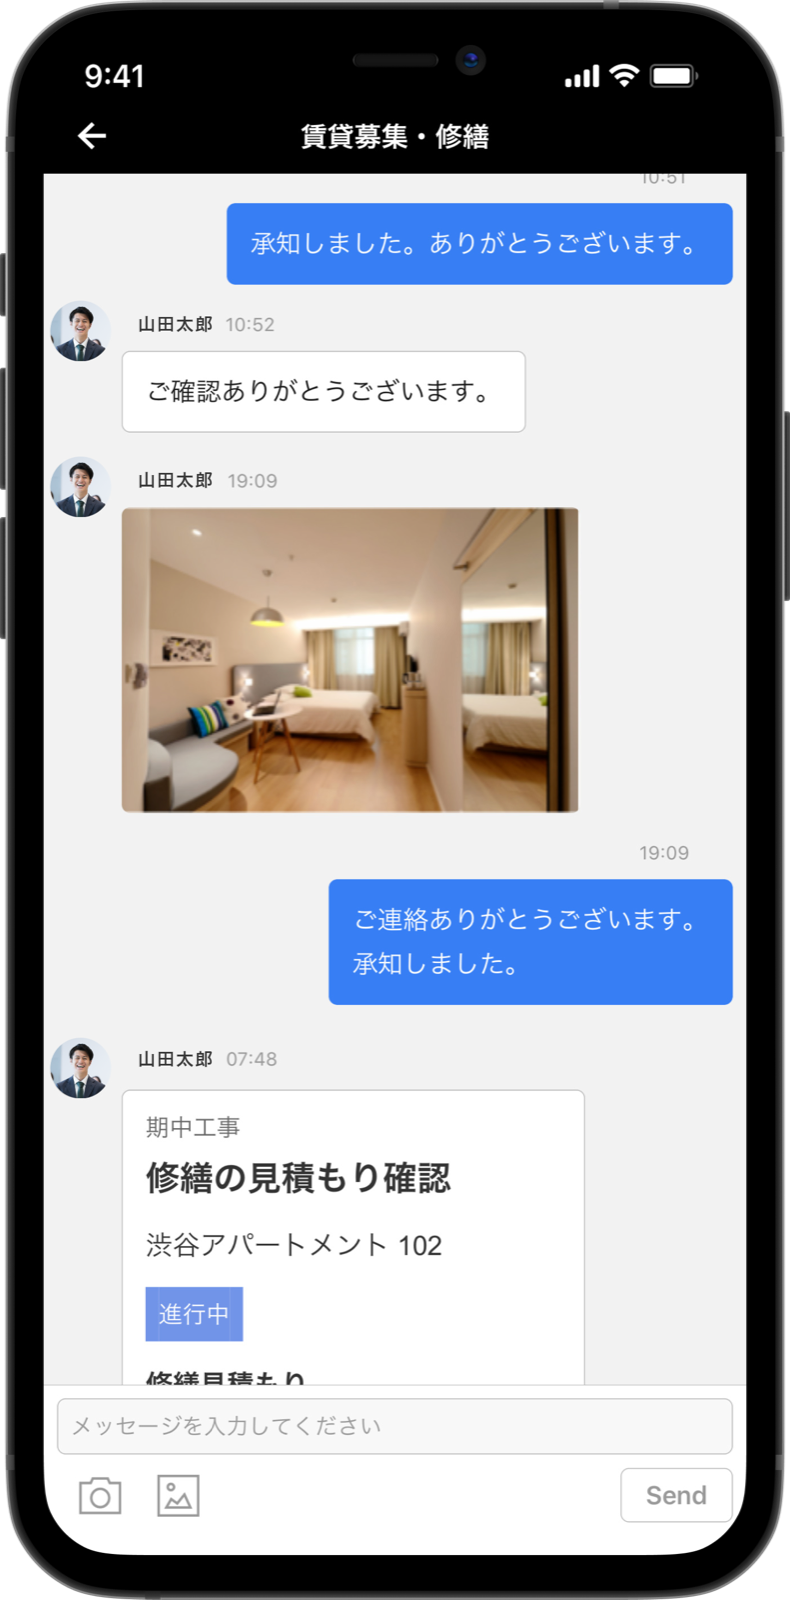
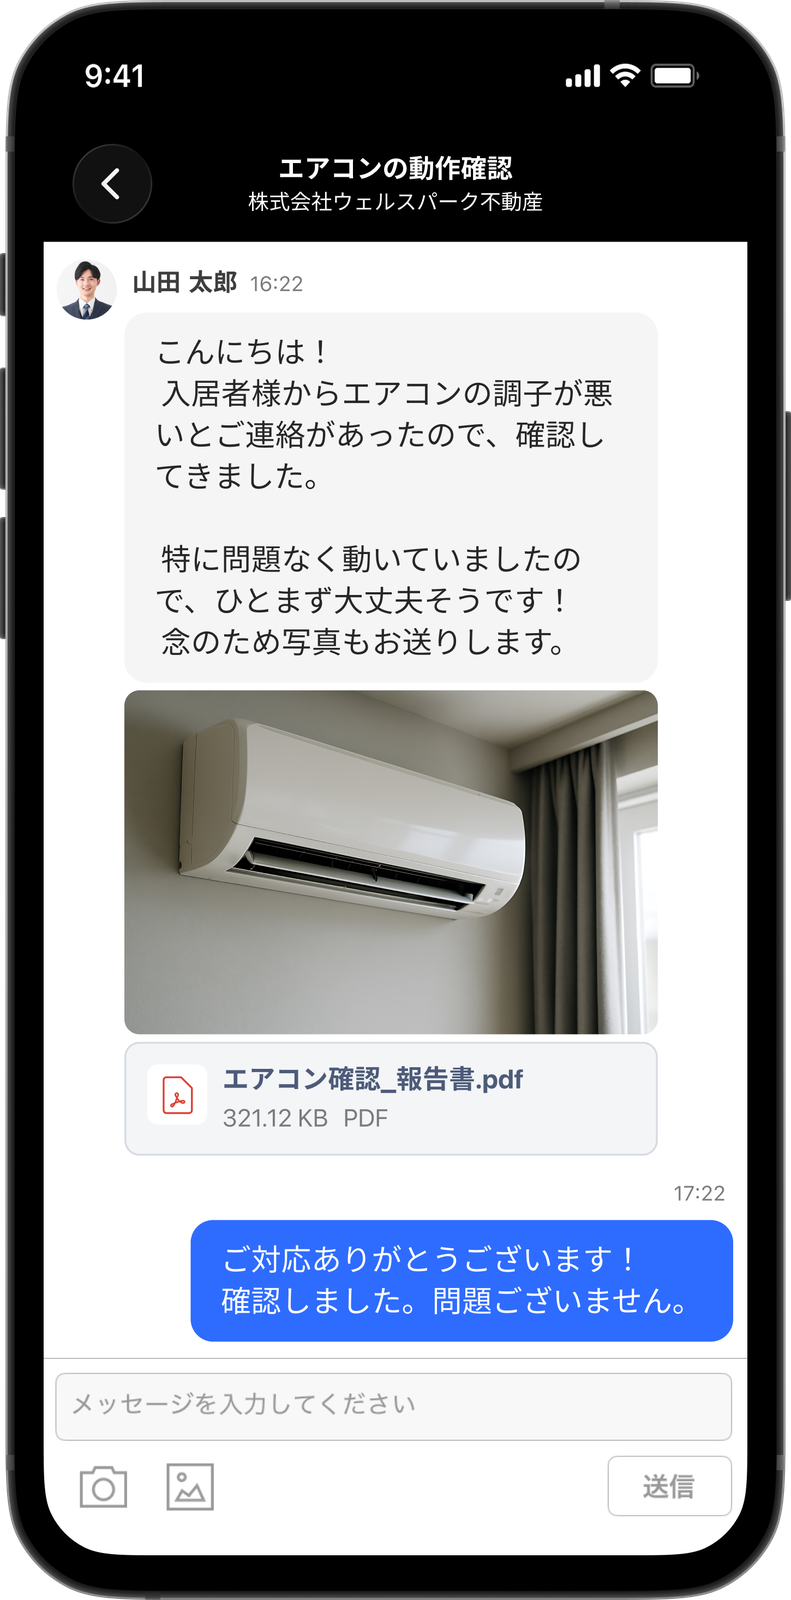
feat(visuals): refresh owner app screens and split visuals into two groups
- Replace the home, sign-in and chat screens with current versions; add chat list, login and two-step verification screens
- Split section 2 into backgrounds/photos and product screens, with a Japanese name column
- Page cards show the name as a title; phone screens get a taller image frame

diff --git a/web/site.js b/web/site.js
@@ -82,7 +82,7 @@
         var url = a.href;
         var card = document.createElement('article'); card.className = 'dk-card';
         var fig = document.createElement('a');
-        fig.className = 'dk-card__img' + (/\/texture-/.test(url) ? ' dk-card__img--cover' : '');
+        fig.className = 'dk-card__img' + (/\/texture-/.test(url) ? ' dk-card__img--cover' : '') + (/\/product-phones?-/.test(url) ? ' dk-card__img--tall' : '');
         fig.href = url; fig.target = '_blank'; fig.rel = 'noopener';
         var img = document.createElement('img'); img.src = url; img.alt = '';
         fig.appendChild(img);
@@ -90,7 +90,10 @@
         var row = document.createElement('div'); row.className = 'dk-file';
         var name = document.createElement('a'); name.href = url; name.title = url; name.textContent = fileName(url);
         row.appendChild(name); row.appendChild(copyButton(url, 'URL をコピー', 'コピーしました'));
-        var desc = document.createElement('p'); desc.className = 'dk-card__desc'; desc.textContent = tds[1].textContent.trim();
+        // Tables with a name column (file | name | description) show the name as the card title
+        var named = tds.length >= 3;
+        if (named) { var title = document.createElement('h4'); title.className = 'dk-card__title'; title.textContent = tds[1].textContent.trim(); body.appendChild(title); }
+        var desc = document.createElement('p'); desc.className = 'dk-card__desc'; desc.textContent = tds[named ? 2 : 1].textContent.trim();
         body.appendChild(row); body.appendChild(desc);
         card.appendChild(fig); card.appendChild(body); grid.appendChild(card);
       });

diff --git a/web/site.css b/web/site.css
@@ -100,6 +100,9 @@ code { font-family: var(--dk-mono); font-size: 13px; background: var(--dk-bg); p
 .dk-card__img img { display: block; width: auto; height: auto; max-width: 88%; max-height: 156px; }
 .dk-card__img--cover img { width: 100%; height: 100%; max-width: none; max-height: none; object-fit: cover; }
 .dk-card__body { padding: 12px 14px 14px; }
+.dk-card__title { margin: 0 0 6px; font-size: 15px; font-weight: 700; line-height: 1.4; color: var(--dk-black); }
+.dk-card__img--tall { height: 300px; }
+.dk-card__img--tall img { max-height: 276px; }
 .dk-card__body .dk-file { margin: 0; flex-direction: column; align-items: flex-start; gap: 6px; }
 .dk-card__desc { margin: 6px 0 0; font-size: 13px; line-height: 1.6; color: var(--dk-gray); }
 

diff --git a/SKILL.md b/SKILL.md
@@ -49,27 +49,39 @@ AI（ChatGPT、Claude、Gemini、Copilot など）に、作りたいものと一
 
 ## 2. ビジュアル素材
 
-公式の制作物で使っている製品画面、テクスチャ、背景。画面内の数値や日付はデモ用で、実データではない。素材の上に文字やロゴを置くときは https://wealthpark-design-team.github.io/design-kit/references/visuals.md を読む。
+公式の制作物で使っている背景、写真、製品画面。素材の上に文字やロゴを置くときは https://wealthpark-design-team.github.io/design-kit/references/visuals.md を読む。
 
-| ファイル | 内容と用途 |
-|---|---|
-| https://wealthpark-design-team.github.io/design-kit/assets/visuals/texture-map-gray.jpg | 薄いグレー地に細い線の都市地図。明るい表紙・背景。全面に黒文字を置ける |
-| https://wealthpark-design-team.github.io/design-kit/assets/visuals/background-white-polygons.jpg | 白〜薄いグレーの多角形の立体パターン（横）。全カテゴリ共通の控えめな背景。黒文字 |
-| https://wealthpark-design-team.github.io/design-kit/assets/visuals/background-white-waves.jpg | 白〜薄いグレーの流線（横長 3:1）。Web のバナーやヘッダーの背景。黒文字 |
-| https://wealthpark-design-team.github.io/design-kit/assets/visuals/background-blue-waves.jpg | 鮮やかな青の流線（横長 3:1）。WealthPark Business のバナーやヘッダーの背景。白文字 |
-| https://wealthpark-design-team.github.io/design-kit/assets/visuals/artwork-gallery-w-wall.jpg | ギャラリーの白い壁に W シンボルの立体と、紺と金の幾何学パネル。手前に人物（横 16:9）。会社紹介・カルチャー向け |
-| https://wealthpark-design-team.github.io/design-kit/assets/visuals/artwork-steel-structure.jpg | 鉄骨の三角トラスを見上げたモノクロ調の写真（縦）。扉ページや採用向け。白文字に帯を敷く |
-| https://wealthpark-design-team.github.io/design-kit/assets/visuals/texture-map-black.jpg | 黒地に細い線の都市地図。暗い扉・区切りページ。白文字と白版ロゴを使う |
-| https://wealthpark-design-team.github.io/design-kit/assets/visuals/product-devices-ja.png | 白背景にノート PC とスマホ 2 台。製品紹介（横） |
-| https://wealthpark-design-team.github.io/design-kit/assets/visuals/product-phones-3-ja.jpg | スマホ 3 台にオーナーアプリの画面。アプリ紹介（横） |
-| https://wealthpark-design-team.github.io/design-kit/assets/visuals/product-laptop-cashflow-ja.jpg | ノート PC に WealthPark Business の収支画面（横） |
-| https://wealthpark-design-team.github.io/design-kit/assets/visuals/product-business-pc-ja.png | WealthPark Business の管理画面（PC、端末の枠なし） |
-| https://wealthpark-design-team.github.io/design-kit/assets/visuals/product-phone-top-ja.png | オーナーアプリのトップ画面（iPhone の枠つき、縦） |
-| https://wealthpark-design-team.github.io/design-kit/assets/visuals/product-phone-cashflow-ja.png | オーナーアプリの収支グラフ画面（縦） |
-| https://wealthpark-design-team.github.io/design-kit/assets/visuals/product-phone-activity-ja.png | オーナーアプリのアクティビティ画面（縦） |
-| https://wealthpark-design-team.github.io/design-kit/assets/visuals/product-phone-signin-ja.png | オーナーアプリのサインイン画面（縦） |
-| https://wealthpark-design-team.github.io/design-kit/assets/visuals/product-phone-chat-ja.png | オーナーアプリのチャット画面（縦） |
-| https://wealthpark-design-team.github.io/design-kit/assets/visuals/product-phone-cashflow-pdf-ja.png | オーナーアプリの収支報告 PDF の表示画面（縦） |
+### 背景と写真
+
+| ファイル | 名前 | 内容と用途 |
+|---|---|---|
+| https://wealthpark-design-team.github.io/design-kit/assets/visuals/texture-map-gray.jpg | 都市地図（グレー） | 薄いグレー地に細い線の都市地図。明るい表紙・背景。全面に黒文字を置ける |
+| https://wealthpark-design-team.github.io/design-kit/assets/visuals/texture-map-black.jpg | 都市地図（黒） | 黒地に細い線の都市地図。暗い扉・区切りページ。白文字と白版ロゴを使う |
+| https://wealthpark-design-team.github.io/design-kit/assets/visuals/background-white-polygons.jpg | 白の多角形 | 白〜薄いグレーの多角形の立体パターン（横）。全カテゴリ共通の控えめな背景。黒文字 |
+| https://wealthpark-design-team.github.io/design-kit/assets/visuals/background-white-waves.jpg | 白の流線 | 白〜薄いグレーの流線（横長 3:1）。Web のバナーやヘッダーの背景。黒文字 |
+| https://wealthpark-design-team.github.io/design-kit/assets/visuals/background-blue-waves.jpg | 青の流線 | 鮮やかな青の流線（横長 3:1）。WealthPark Business のバナーやヘッダーの背景。白文字 |
+| https://wealthpark-design-team.github.io/design-kit/assets/visuals/artwork-gallery-w-wall.jpg | W シンボルのギャラリー | ギャラリーの白い壁に W シンボルの立体と、紺と金の幾何学パネル。手前に人物（横 16:9）。会社紹介・カルチャー向け |
+| https://wealthpark-design-team.github.io/design-kit/assets/visuals/artwork-steel-structure.jpg | 鉄骨の構造 | 鉄骨の三角トラスを見上げたモノクロ調の写真（縦）。扉ページや採用向け。白文字に帯を敷く |
+
+### 製品画面
+
+画面内の数値、日付、物件名、人名はデモ用で、実データではない。スマホの画面は iPhone の枠つき（縦、背景は透過）。
+
+| ファイル | 名前 | 内容と用途 |
+|---|---|---|
+| https://wealthpark-design-team.github.io/design-kit/assets/visuals/product-devices-ja.png | PC とスマホ | 白背景にノート PC とスマホ 2 台。両製品をまとめた紹介（横） |
+| https://wealthpark-design-team.github.io/design-kit/assets/visuals/product-laptop-cashflow-ja.jpg | Business の収支画面（PC） | ノート PC に WealthPark Business の収支画面（横） |
+| https://wealthpark-design-team.github.io/design-kit/assets/visuals/product-business-pc-ja.png | Business の管理画面 | WealthPark Business の管理画面（PC、端末の枠なし） |
+| https://wealthpark-design-team.github.io/design-kit/assets/visuals/product-phones-3-ja.jpg | オーナーアプリ 3 画面 | スマホ 3 台にオーナーアプリの画面。アプリ紹介（横） |
+| https://wealthpark-design-team.github.io/design-kit/assets/visuals/product-phone-top-ja.png | ホーム画面 | オーナーアプリのホーム。今月の収支総額、保有物件の稼働率と収支グラフ |
+| https://wealthpark-design-team.github.io/design-kit/assets/visuals/product-phone-cashflow-ja.png | 収支画面 | 物件ごとの月別収支のグラフと内訳 |
+| https://wealthpark-design-team.github.io/design-kit/assets/visuals/product-phone-cashflow-pdf-ja.png | 収支報告書画面 | 月次の収支報告書（PDF）の表示と送信 |
+| https://wealthpark-design-team.github.io/design-kit/assets/visuals/product-phone-chat-list-ja.png | チャット一覧画面 | 管理会社からの連絡の一覧。未読の件数つき |
+| https://wealthpark-design-team.github.io/design-kit/assets/visuals/product-phone-chat-ja.png | チャット画面 | 管理会社とのやりとり。写真と PDF の添付つき |
+| https://wealthpark-design-team.github.io/design-kit/assets/visuals/product-phone-activity-ja.png | アクティビティ画面 | 入居申込などの報告と、承諾・不承諾の回答 |
+| https://wealthpark-design-team.github.io/design-kit/assets/visuals/product-phone-signin-ja.png | ログイン開始画面 | アプリを開いたときの最初の画面。ロゴとログインボタン |
+| https://wealthpark-design-team.github.io/design-kit/assets/visuals/product-phone-login-ja.png | ログイン画面 | メールアドレスとパスワードの入力 |
+| https://wealthpark-design-team.github.io/design-kit/assets/visuals/product-phone-2fa-ja.png | 2 段階認証画面 | 本人確認の認証コードの受け取り方法を選ぶ |
 
 ## 3. アイコン
 

diff --git a/references/visuals.md b/references/visuals.md
@@ -1,6 +1,6 @@
 # ビジュアル素材
 
-キービジュアル、テクスチャ、製品画面の使い方。ファイル一覧と一言説明は SKILL.md「2. ビジュアル素材」にある。ここでは使用例と、文字やロゴを置くときの参考を書く。
+キービジュアル、テクスチャ、製品画面の使い方。ファイル一覧と一言説明は SKILL.md「2. ビジュアル素材」の「背景と写真」「製品画面」にある。ここでは使用例と、文字やロゴを置くときの参考を書く。
 
 ## 原則
 
@@ -21,6 +21,8 @@
 | WealthPark Business のバナー・ヘッダー | background-blue-waves.jpg（白文字） | background-white-waves.jpg |
 | WealthPark Business の製品紹介 | product-laptop-cashflow-ja.jpg | product-business-pc-ja.png |
 | オーナーアプリの紹介 | product-phones-3-ja.jpg | product-phone-top-ja.png ほか縦の単体画面 |
+| ログインや本人確認の流れの説明 | product-phone-signin-ja.png、product-phone-login-ja.png、product-phone-2fa-ja.png を順に並べる | |
+| 管理会社とのやりとりの説明 | product-phone-chat-list-ja.png と product-phone-chat-ja.png | product-phone-activity-ja.png |
 | 両製品をまとめて見せる | product-devices-ja.png | product-phones-3-ja.jpg + product-laptop-cashflow-ja.jpg |
 | 会社紹介、カルチャー | artwork-gallery-w-wall.jpg | artwork-steel-structure.jpg |
 | 採用 | artwork-steel-structure.jpg | artwork-gallery-w-wall.jpg |
@@ -41,7 +43,7 @@
 | product-phones-3-ja.jpg | 横 3000×2000 | 上下の余白のみ | 黒 |
 | product-laptop-cashflow-ja.jpg | 横 2400×1465 | 左右の余白のみ | 黒 |
 | product-business-pc-ja.png | 横 1600×977 | 置かない（画面そのもの） | |
-| product-phone-*.png | 縦 790×1600 | 置かない（画面そのもの）。横に文章を添える | |
+| product-phone-*.png | 縦 約 790×1600 | 置かない（画面そのもの）。横に文章を添える | |
 
 ## 原本と追加
 

diff --git a/AGENTS.md b/AGENTS.md
@@ -16,7 +16,7 @@ WealthPark の制作物をブランドに合わせるための共通参照先。
 ## 素材
 
 - ロゴ: `assets/logo/`。正本はデザインチームの Google Drive「共有素材 / 001_Logo」。ファイル名は `wealthpark-<brand>-logo(-inverse).<svg|png>`、シンボルは `wealthpark-<brand>-symbol`
-- ビジュアル: `assets/visuals/`。名前は `texture-` / `background-` / `artwork-` / `product-` + 内容 + 言語。長辺 2400px 以下。1 点ごとに `SKILL.md` の表に一言説明を書く。説明がない素材は AI が選べないので入れない。ai / psd は入れない（Drive に残す）
+- ビジュアル: `assets/visuals/`。名前は `texture-` / `background-` / `artwork-` / `product-` + 内容 + 言語。長辺 2400px 以下。1 点ごとに `SKILL.md` の表（「背景と写真」か「製品画面」）に日本語の名前と一言説明を書く。説明がない素材は AI が選べないので入れない。ai / psd は入れない（Drive に残す）
 - アイコン: `assets/icons/{filled,outlined}/<Material Symbols の名前>.svg`。追加は `scripts/fetch-icons.py <名前>`。足したら `SKILL.md` の表と `references/icons.md` に用途を書く
 - Google Drive は AI から読めないので、参照先に書かない
 - 既存のファイル名は変えない。URL を参照している資料が壊れる
